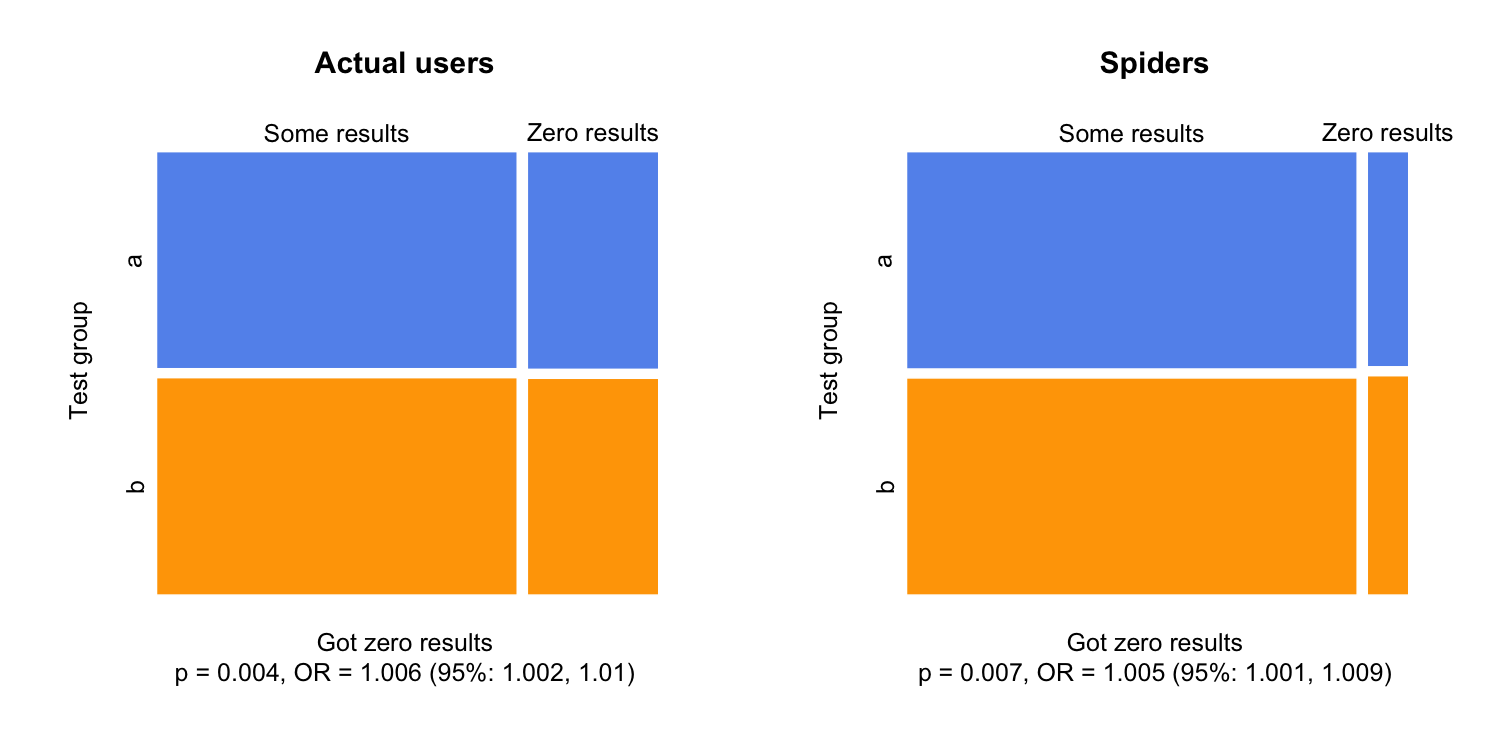
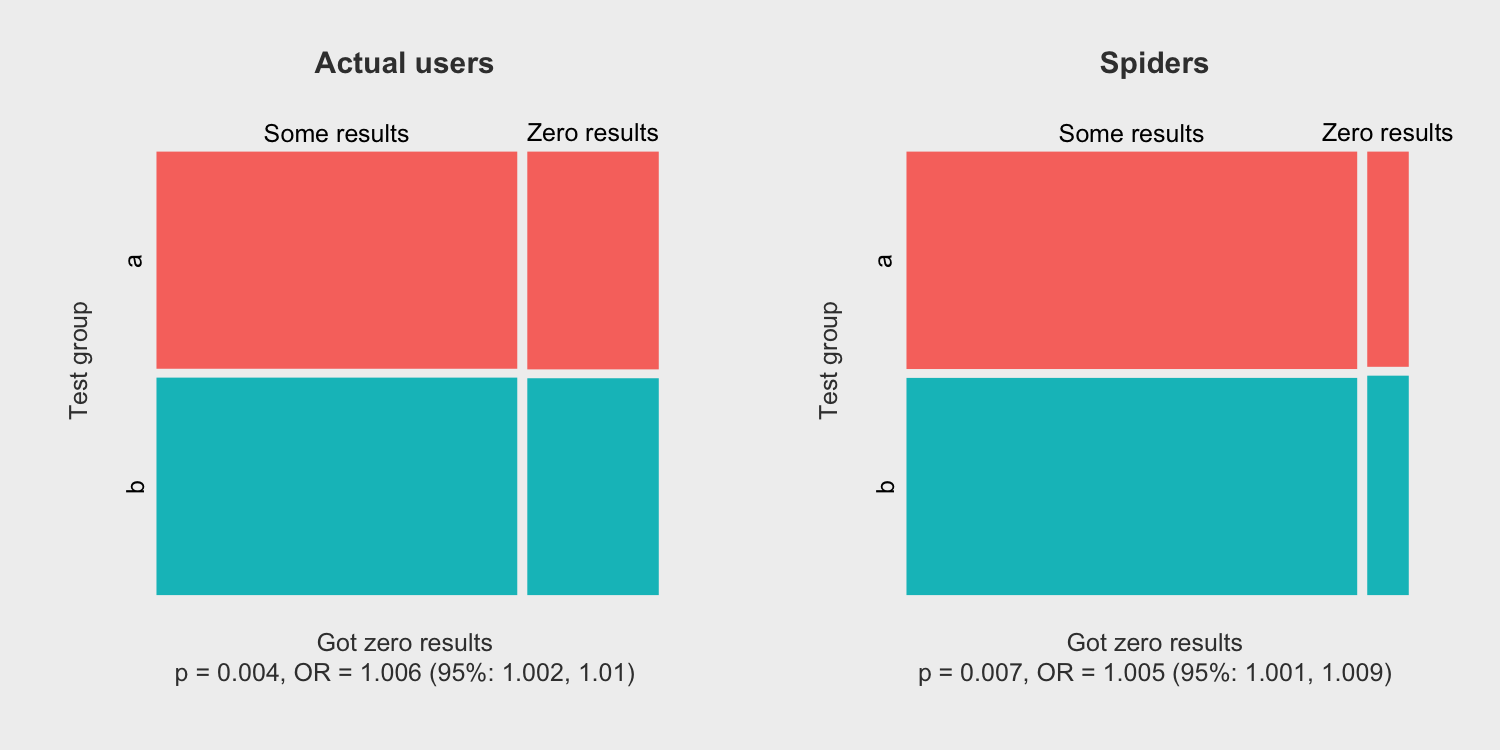
Uploading analyses

diff --git a/initial_analysis/notebook.md b/initial_analysis/notebook.md
@@ -70,12 +70,17 @@ mosaicplot(results ~ test_group, data = data, shade = TRUE,
 
 
 ```r
-par(mfrow = c(1, 2))
+par(mfrow = c(1, 2),
+    bg = ggthemes_data$fivethirtyeight["ltgray"],
+    col.lab = ggthemes_data$fivethirtyeight["dkgray"],
+    col.main = ggthemes_data$fivethirtyeight["dkgray"],
+    col.axis = ggthemes_data$fivethirtyeight["dkgray"],
+    col.sub = ggthemes_data$fivethirtyeight["dkgray"])
 with(keep_where(data, class != "Spider"), {
   x <- table(test_group, results)
   # chisq.test(x)
   # mosaic::oddsRatio(x, verbose = TRUE)
-  mosaicplot(t(x), color = c("cornflowerblue", "orange"), border = "white",
+  mosaicplot(t(x), color = scales::hue_pal()(2), border = NA,
            main = "Actual users", cex.axis = 1,
            sub = "p = 0.004, OR = 1.006 (95%: 1.002, 1.01)",
            xlab = "Got zero results", ylab = "Test group")
@@ -84,7 +89,7 @@ with(keep_where(data, class == "Spider"), {
   x <- table(test_group, results)
   # chisq.test(x)
   # mosaic::oddsRatio(x, verbose = TRUE)
-  mosaicplot(t(x), color = c("cornflowerblue", "orange"), border = "white",
+  mosaicplot(t(x), color = scales::hue_pal()(2), border = NA,
            main = "Spiders", cex.axis = 1,
            sub = "p = 0.007, OR = 1.005 (95%: 1.001, 1.009)",
            xlab = "Got zero results", ylab = "Test group")
